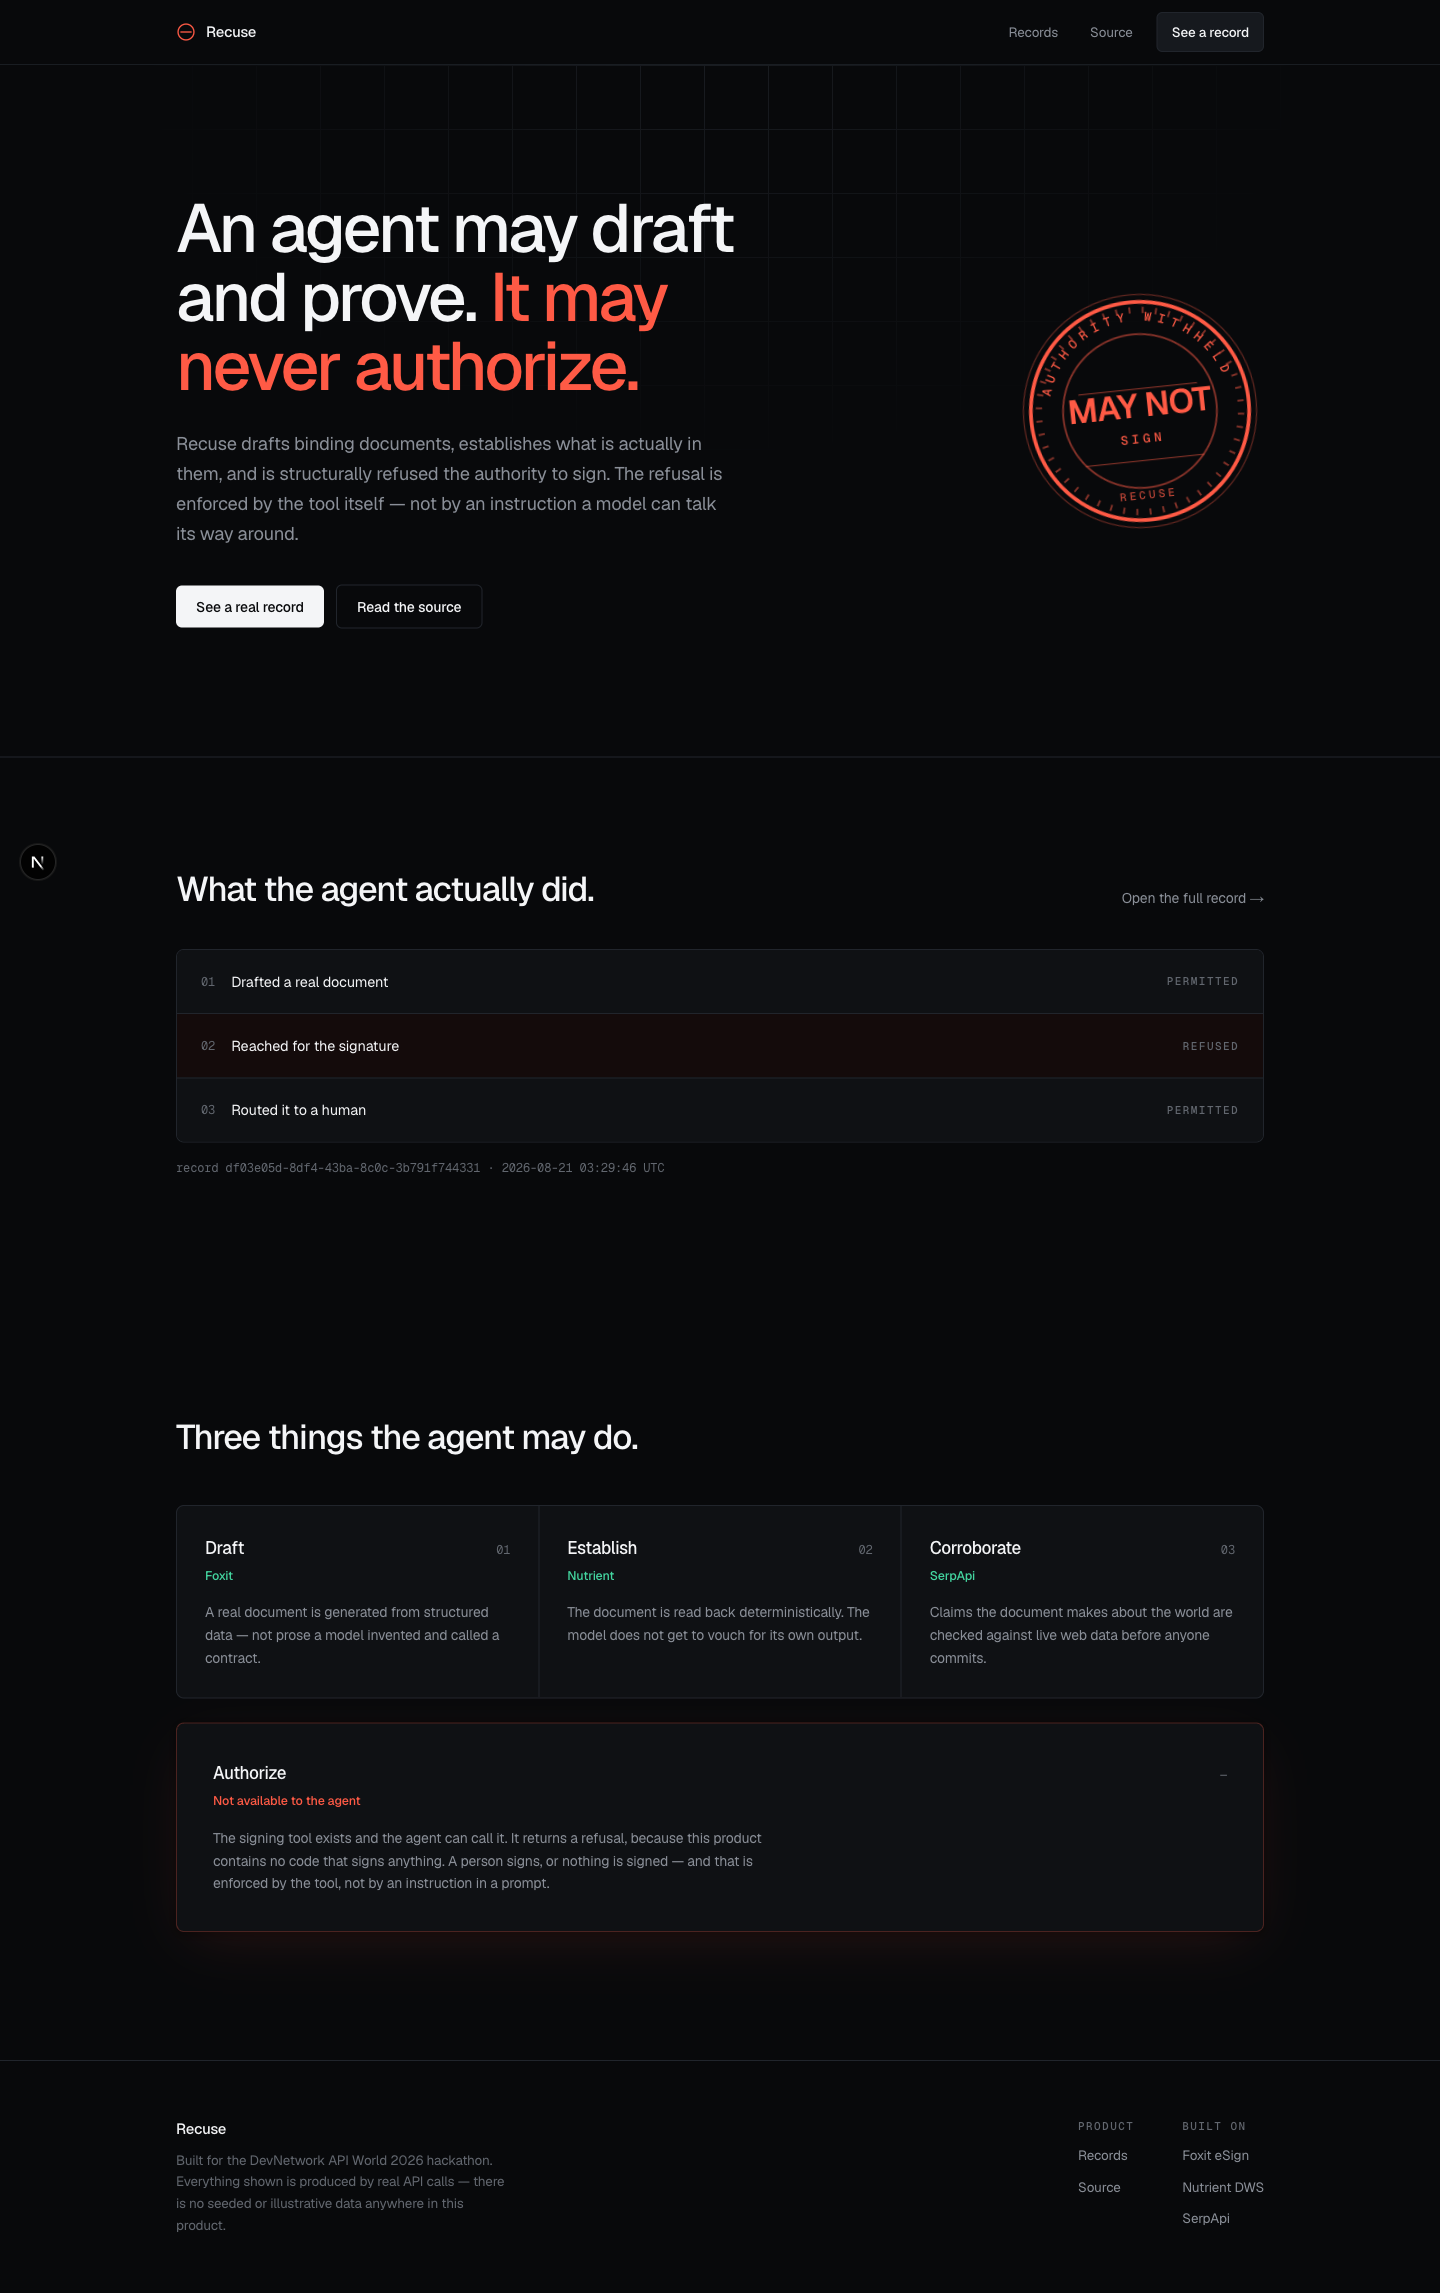
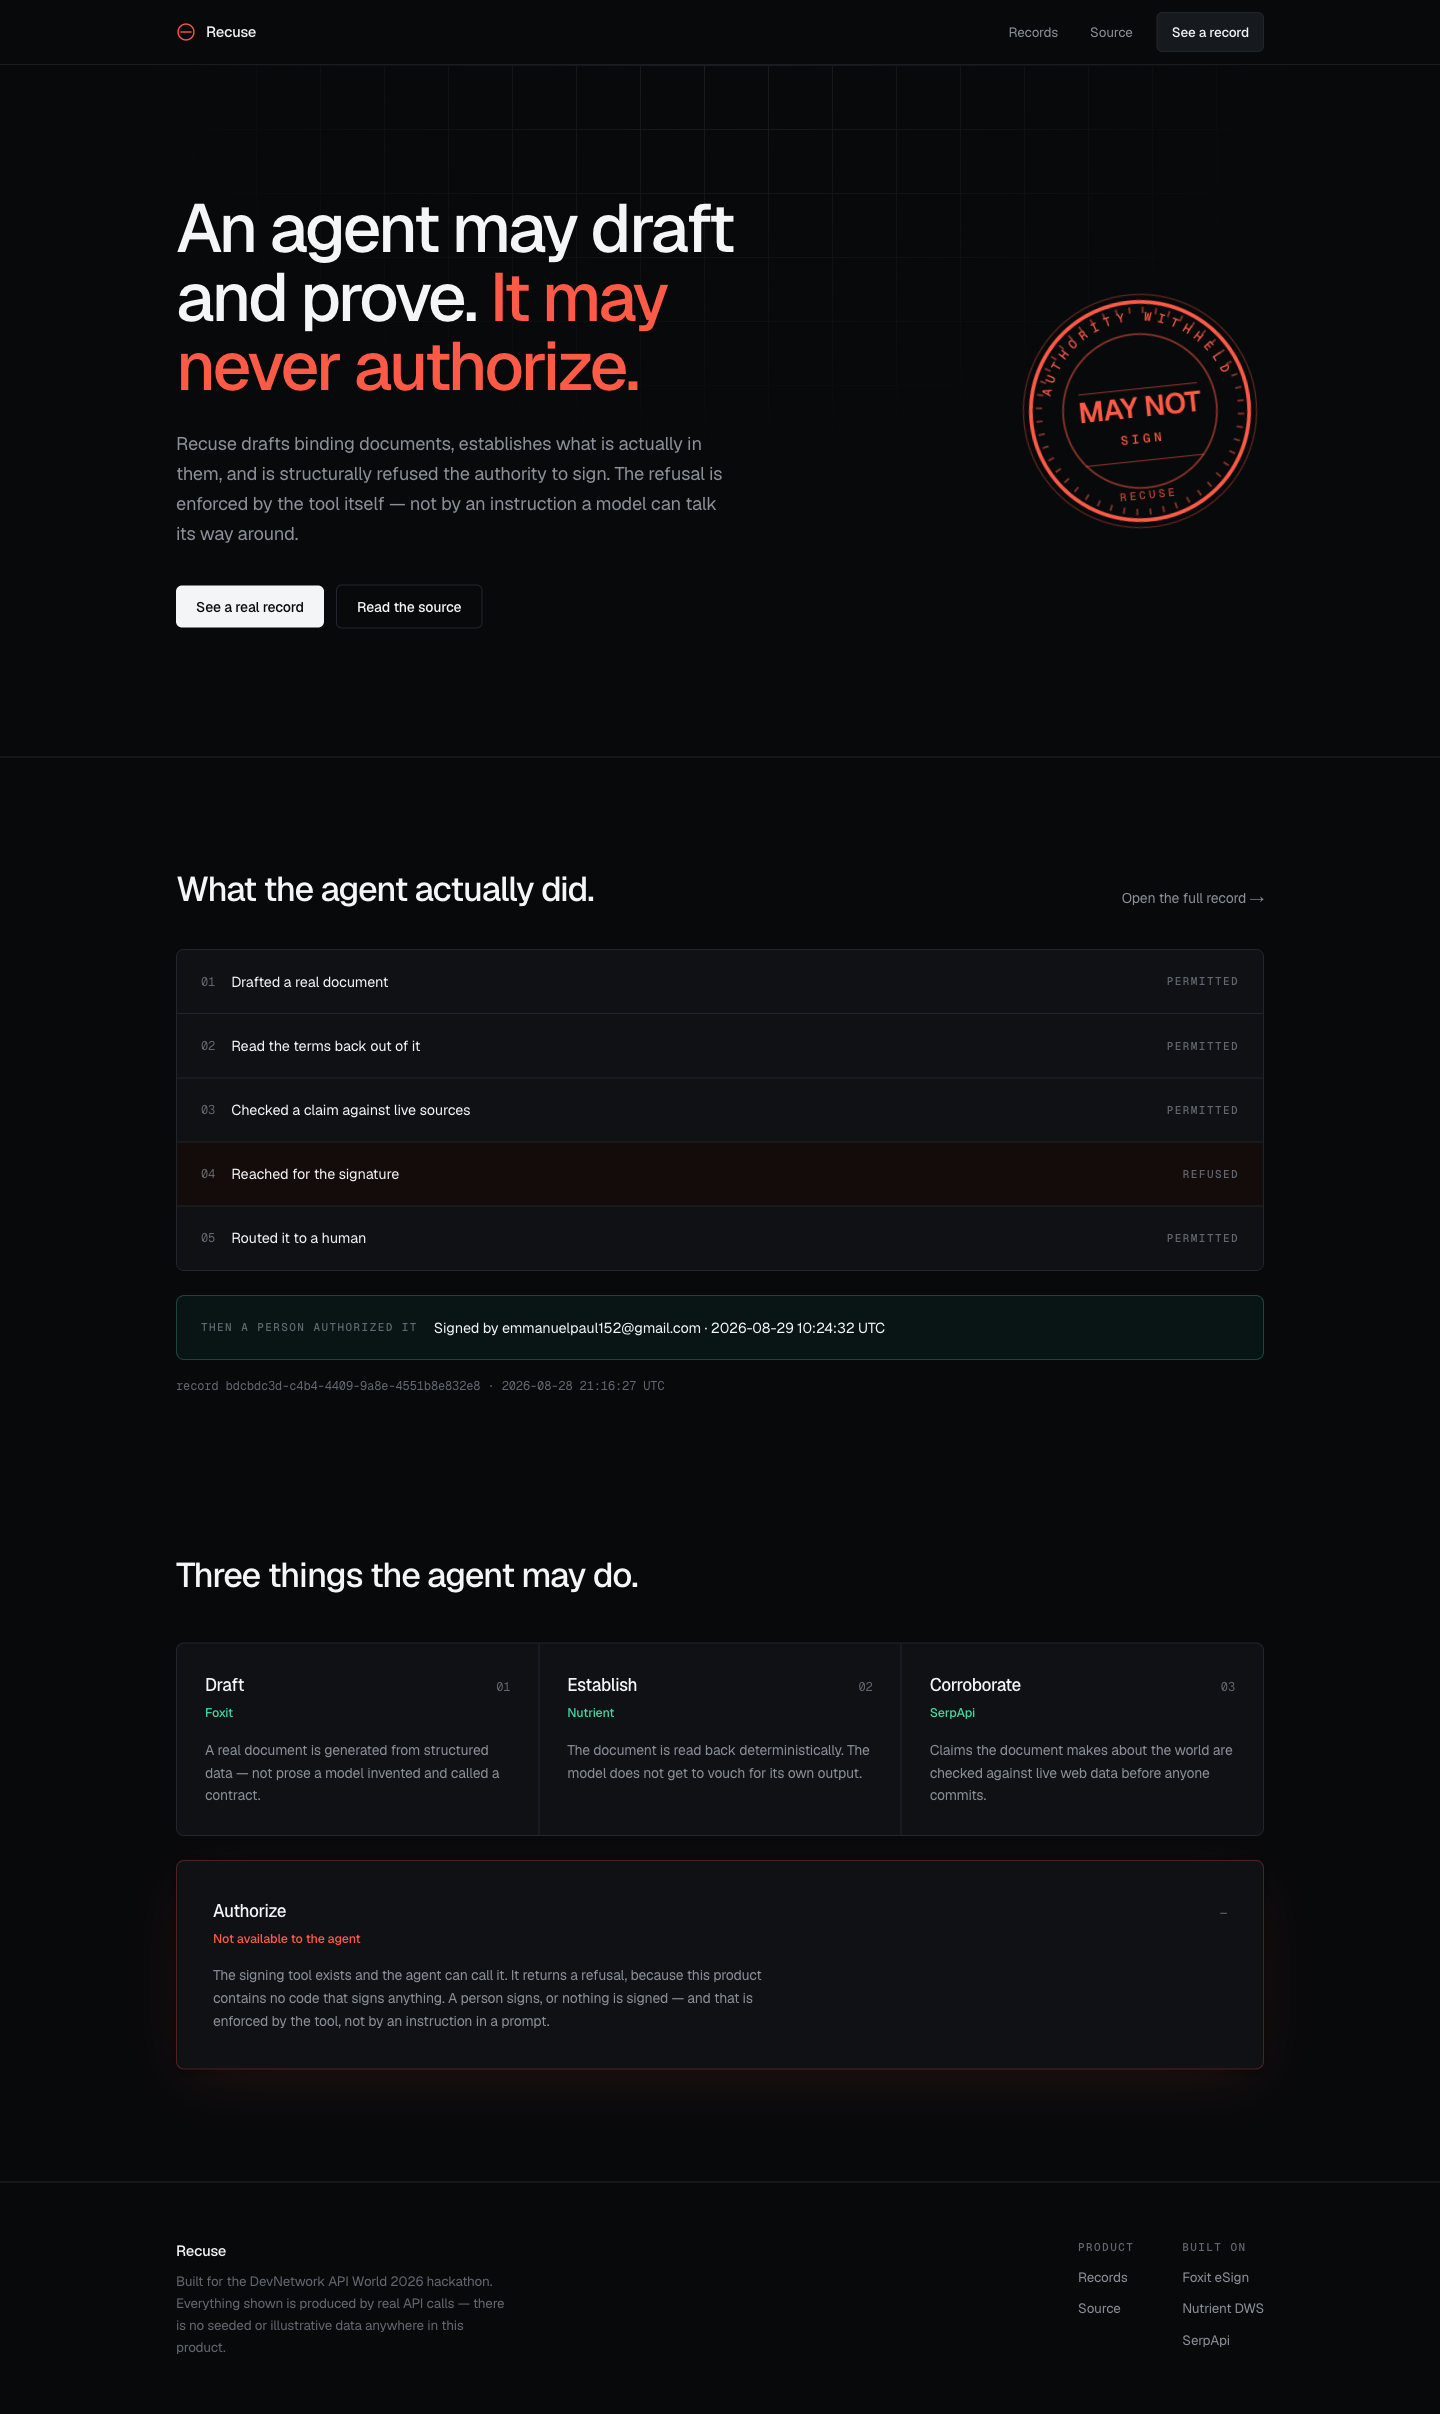
Finish the landing page rather than expand it
Three defects, no new sections.

The label map never learned the tools added later, so the ledger printed raw
establish_terms and corroborate_claim to anyone landing on the page.

The story stopped at the refusal. It now shows what a real person did next -
signed by, and when - so the page completes the arc it opens instead of leaving
the agent blocked and the outcome unstated. That is the persuasive half and it
was missing.

Section padding was stacking two full paddings into a dead gap between the
ledger and the pipeline.

Deliberately not made maximal. The product argues for restraint and withheld
authority; a louder page would argue against its own thesis, and with the
deadline close the remaining time is worth more on the video than on more UI.

diff --git a/app/page.tsx b/app/page.tsx
@@ -1,7 +1,7 @@
 import Link from "next/link";
 import { desc, eq, asc } from "drizzle-orm";
 import { db } from "@/lib/db";
-import { runs, agentEvents } from "@/lib/db/schema";
+import { runs, agentEvents, authorizations } from "@/lib/db/schema";
 import { RefusalSeal } from "@/components/RefusalSeal";
 import { Pipeline } from "@/components/site/Pipeline";
 
@@ -11,6 +11,9 @@ export default async function Home() {
   const [latest] = await db.select().from(runs).orderBy(desc(runs.createdAt)).limit(1);
   const events = latest
     ? await db.select().from(agentEvents).where(eq(agentEvents.runId, latest.id)).orderBy(asc(agentEvents.seq))
+    : [];
+  const [auth] = latest
+    ? await db.select().from(authorizations).where(eq(authorizations.runId, latest.id))
     : [];
 
   return (
@@ -52,7 +55,7 @@ export default async function Home() {
 
       {/* Product proof — the actual thing, not a mockup of it */}
       {latest && (
-        <section className="mx-auto max-w-6xl px-6 py-24 sm:px-8 sm:py-28">
+        <section className="mx-auto max-w-6xl px-6 pt-24 pb-16 sm:px-8 sm:pt-28 sm:pb-20">
           <div className="flex flex-wrap items-end justify-between gap-4">
             <h2 className="display-m max-w-[22ch] text-ink">What the agent actually did.</h2>
             <Link href={`/runs/${latest.id}`} className="text-[14px] text-muted transition-colors hover:text-ink">
@@ -84,6 +87,17 @@ export default async function Home() {
                 );
               })}
           </ol>
+          {auth?.status === "signed" && (
+            <div className="mt-6 flex flex-wrap items-center gap-x-4 gap-y-2 rounded-lg border border-granted/25 bg-granted-deep/30 px-6 py-5">
+              <span className="label text-granted">Then a person authorized it</span>
+              <span className="text-[14.5px] tracking-[-0.01em] text-ink">
+                Signed by {auth.signerEmail}
+                {auth.signedAt
+                  ? ` · ${auth.signedAt.toISOString().slice(0, 19).replace("T", " ")} UTC`
+                  : ""}
+              </span>
+            </div>
+          )}
           <p className="mt-4 provenance">
             record {latest.id} · {latest.createdAt.toISOString().slice(0, 19).replace("T", " ")} UTC
           </p>
@@ -97,6 +111,8 @@ export default async function Home() {
 
 const LABELS: Record<string, string> = {
   draft_document: "Drafted a real document",
+  establish_terms: "Read the terms back out of it",
+  corroborate_claim: "Checked a claim against live sources",
   sign_document: "Reached for the signature",
   request_authorization: "Routed it to a human",
 };

diff --git a/components/site/Pipeline.tsx b/components/site/Pipeline.tsx
@@ -6,7 +6,7 @@ const STAGES = [
 
 export function Pipeline() {
   return (
-    <section className="mx-auto max-w-6xl px-6 py-24 sm:px-8 sm:py-32">
+    <section className="mx-auto max-w-6xl px-6 pt-16 pb-24 sm:px-8 sm:pt-20 sm:pb-28">
       <h2 className="display-m max-w-[20ch] text-ink">
         Three things the agent may do.
       </h2>
